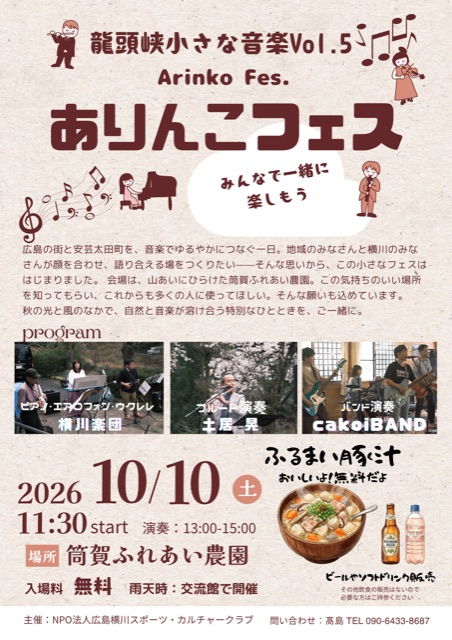
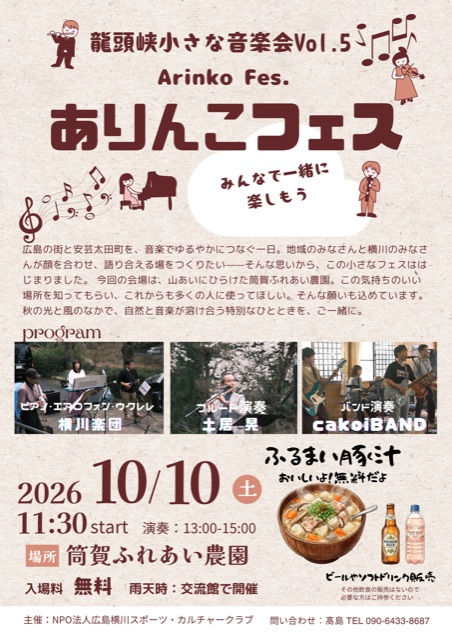
ありんこフェスのチラシを最新版(音楽会Vol.5)に差し替え・キャッシュ対策v2

Changed region(s): [[0.031, 0.4062, 0.9292, 0.4688], [0.1858, 0.0312, 0.7743, 0.0938], [0.9292, 0.375, 0.9602, 0.4062]]

diff --git a/index.html b/index.html
@@ -374,8 +374,8 @@
           <div>
             <p class="live-name">ありんこフェス（龍頭峡 小さな音楽 Vol.5）— cakoiBAND出演</p>
             <p class="live-meta">11:30 START／演奏 13:00〜15:00｜筒賀ふれあい農園（広島・安芸太田町）｜入場無料 ※雨天時は交流館で開催</p>
-            <a class="flyer-thumb" href="assets/arinko-flyer.jpg" data-flyer="assets/arinko-flyer.jpg" aria-label="ありんこフェスのチラシを拡大表示">
-              <img src="assets/arinko-flyer-thumb.jpg" alt="ありんこフェス チラシ" loading="lazy">
+            <a class="flyer-thumb" href="assets/arinko-flyer.jpg?v=2" data-flyer="assets/arinko-flyer.jpg?v=2" aria-label="ありんこフェスのチラシを拡大表示">
+              <img src="assets/arinko-flyer-thumb.jpg?v=2" alt="ありんこフェス チラシ" loading="lazy">
               <span class="flyer-hint">チラシを拡大 ⤢</span>
             </a>
           </div>
